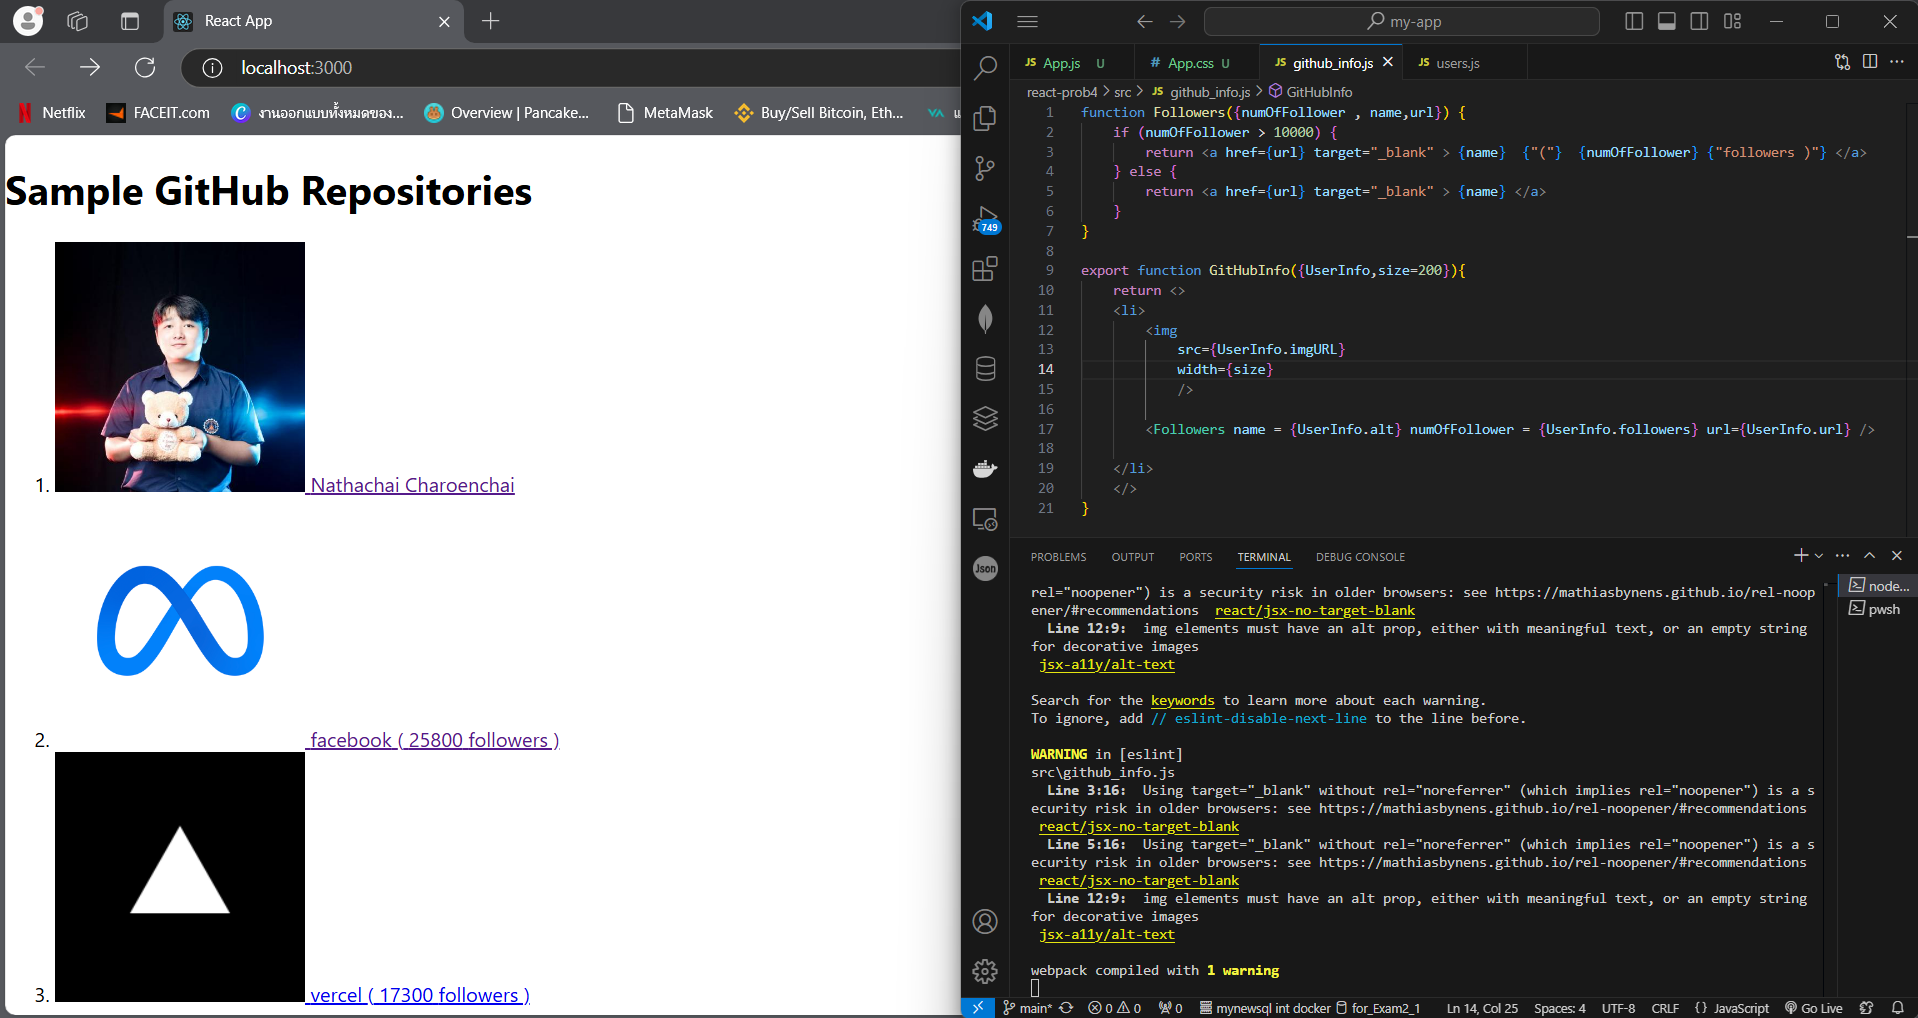
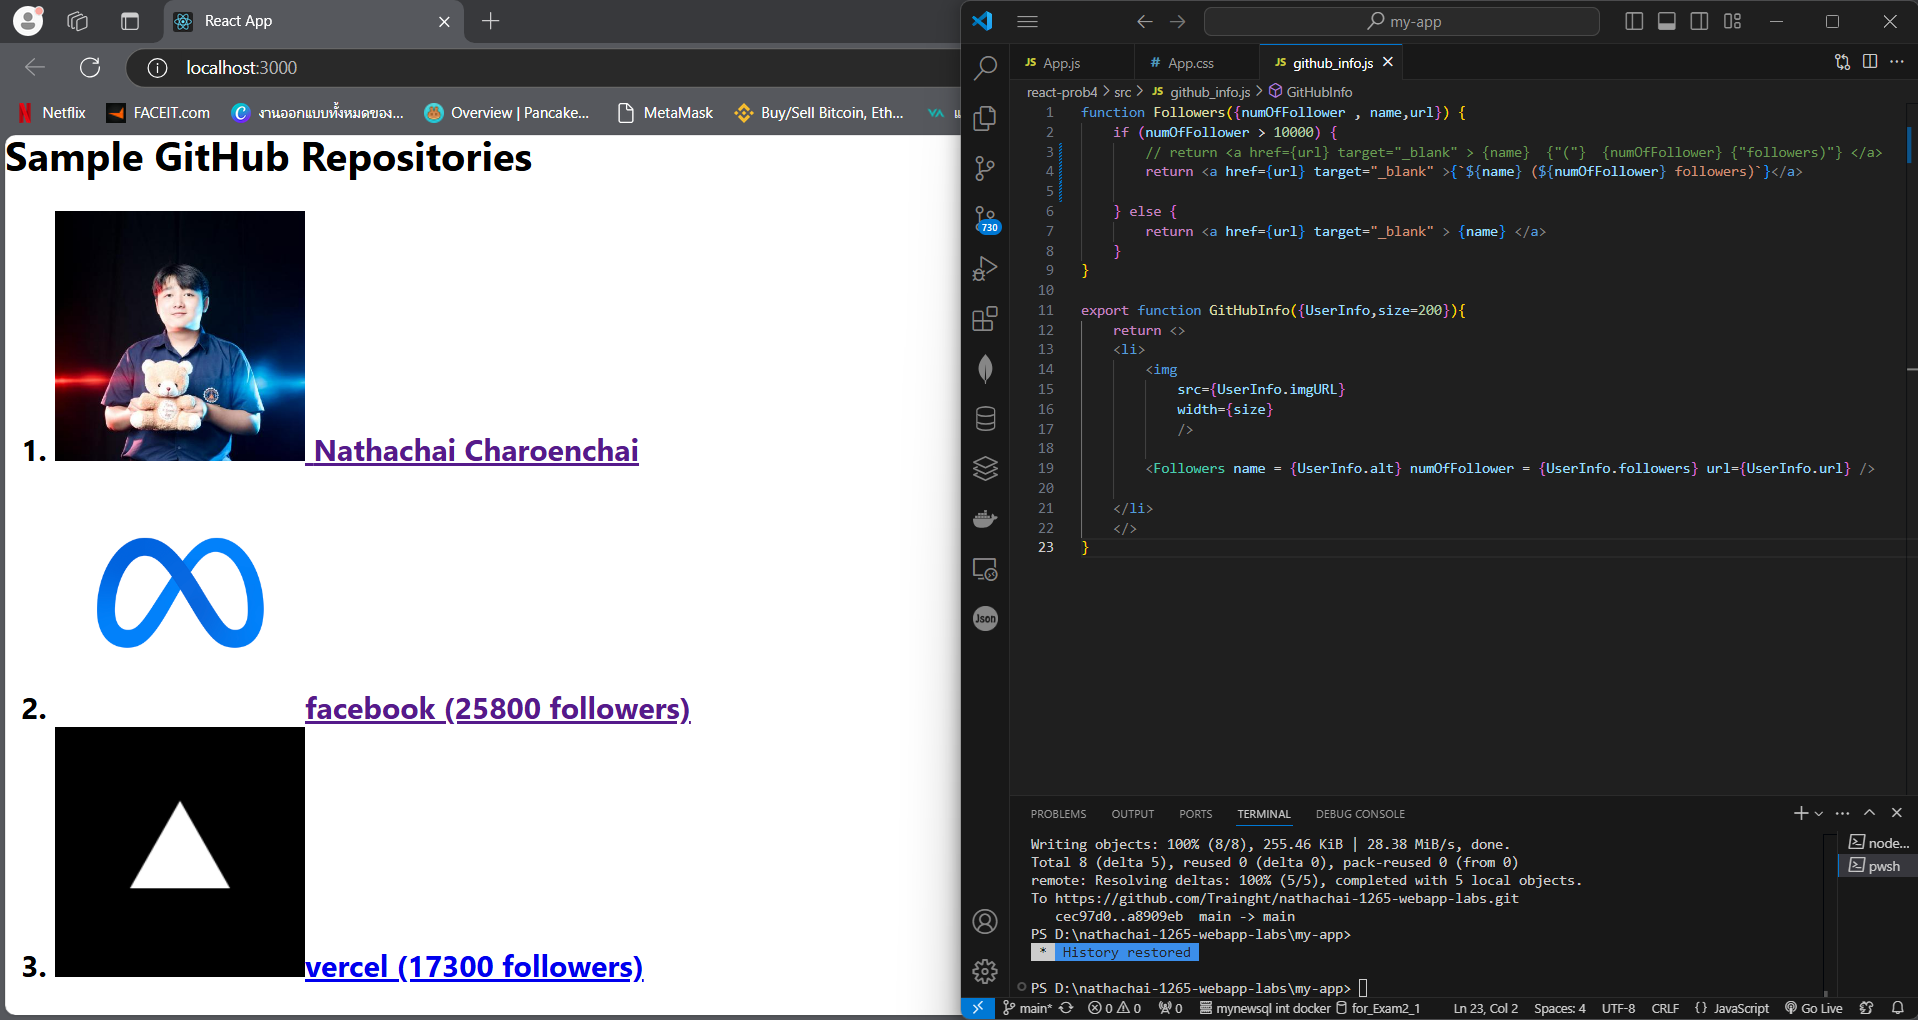
Final jing jing React Problem 4

diff --git a/my-app/react-prob4/src/github_info.js b/my-app/react-prob4/src/github_info.js
@@ -1,6 +1,8 @@
 function Followers({numOfFollower , name,url}) {
     if (numOfFollower > 10000) {
-        return <a href={url} target="_blank" > {name}  {"("}  {numOfFollower} {"followers )"} </a>
+        // return <a href={url} target="_blank" > {name}  {"("}  {numOfFollower} {"followers)"} </a>
+        return <a href={url} target="_blank" >{`${name} (${numOfFollower} followers)`}</a>
+
     } else {
         return <a href={url} target="_blank" > {name} </a>
     }
